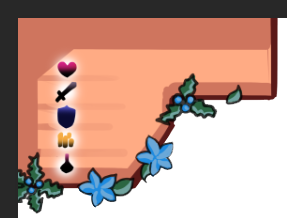
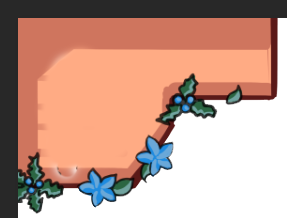
initial styling for player stats

Changed region(s): [[0.1394, 0.2477, 0.3066, 0.8257]]

diff --git a/assets/css/style.css b/assets/css/style.css
@@ -185,7 +185,7 @@
      position: relative;
  }
 
- /* ----- Inner Divs & Buttons*/
+ /* ----- Stats */
 
 .heroine-stats {
     background-image: url(../stats/template-stats-left.png);
@@ -196,6 +196,96 @@
     background-image: url(../stats/template-stats-right.png);
     background-position-x: right;
 }
+
+.stat-container {
+    border: 2px solid blue;
+    height: 100%;
+    width: 100%;
+}
+
+.inner-stat-container {
+    border: 2px solid aqua;
+    position: relative;
+    height: 80%;
+    width: 80%;
+    top: 10%;
+    left: 10%;
+}
+#heroine-stats-container .stat-line {
+    border: 2px solid red;
+    height: 20%;
+    background-repeat: no-repeat;
+    background-size: contain;
+}
+
+.health-stat{
+    background-image: url(../stats/stat-icon-health.png);
+}
+
+.attack-stat{
+    background-image: url(../stats/stat-icon-attack.png);
+}
+
+.defence-stat{
+    background-image: url(../stats/stat-icon-defence.png);
+}
+.gold-stat{
+    background-image: url(../stats/stat-icon-gold.png);
+}
+
+/*
+----- Player Stats
+
+ .player-stats-container {
+     position: absolute;
+     width: 768px;
+     height: 1024px;
+     left: calc(50% - 384px);
+     pointer-events: none;
+ }
+
+ .iconSmall {
+     height: 25px;
+ }
+
+ .player-stats {
+     position: absolute;
+     left: 7%;
+     top: 5%;
+     outline: purple 3px solid;
+     background-color: aqua;
+     width: 140px;
+ }
+
+ .player-stats p {
+     font-size: 25px;
+     margin-bottom: 4px;
+ }
+  ----- Enemy Stats
+
+ .enemy-stats-container {
+     position: absolute;
+     width: 768px;
+     height: 1024px;
+     left: calc(50% - 384px);
+     pointer-events: none;
+ }
+
+ .enemy-stats {
+     position: absolute;
+     right: 7%;
+     top: 5%;
+     outline: purple 3px solid;
+     background-color: pink;
+     width: 140px;
+ }
+
+ .enemy-stats p {
+     font-size: 25px;
+     margin-bottom: 4px;
+ }
+
+/* ----- Inner Divs & Buttons - Figures */
 
 .figure {
     background-position: center;
@@ -260,6 +350,9 @@
     /* Level 2 enemy */
  }
 
+
+/* ----- Inner Divs & Buttons - Buttons */
+
 #attack .button {
      background-image: url(../buttons/sword.png);
  }
@@ -271,7 +364,6 @@
 #flee .button {
     background-image: url(../buttons/run.png);
 }
-
 
 
 
@@ -816,56 +908,7 @@
      color: goldenrod;
      opacity: 0;
  }
- ----- Player Stats
 
- .player-stats-container {
-     position: absolute;
-     width: 768px;
-     height: 1024px;
-     left: calc(50% - 384px);
-     pointer-events: none;
- }
-
- .iconSmall {
-     height: 25px;
- }
-
- .player-stats {
-     position: absolute;
-     left: 7%;
-     top: 5%;
-     outline: purple 3px solid;
-     background-color: aqua;
-     width: 140px;
- }
-
- .player-stats p {
-     font-size: 25px;
-     margin-bottom: 4px;
- }
-  ----- Enemy Stats
-
- .enemy-stats-container {
-     position: absolute;
-     width: 768px;
-     height: 1024px;
-     left: calc(50% - 384px);
-     pointer-events: none;
- }
-
- .enemy-stats {
-     position: absolute;
-     right: 7%;
-     top: 5%;
-     outline: purple 3px solid;
-     background-color: pink;
-     width: 140px;
- }
-
- .enemy-stats p {
-     font-size: 25px;
-     margin-bottom: 4px;
- }
   ----- Round counter
 
  .round-counter-container {

diff --git a/index.html b/index.html
@@ -23,7 +23,33 @@
         <!--COMBAT-->
         <div id="combat-screen" class="game-screen">
             <div class="screen-flex-row stat-section">
-                <div class="stats heroine-stats" id="heroine-stats-container"></div>
+                <div class="stats heroine-stats" id="heroine-stats-container">
+                    <div class="stat-container">
+                        <div class="inner-stat-container">
+                            <div class="stat-line health-stat"></div>
+                            <div class="stat-line attack-stat"></div>
+                            <div class="stat-line defence-stat"></div>
+                            <div class="stat-line gold-stat"></div>
+                        </div>
+
+
+
+                        <!--
+                        <p><span><img class="iconSmall" src="assets/buttons/sword.png"></span> <span
+                                id="playerHealth"></span> / <span id="playerMaxHealth"></span>
+                        </p>
+                        <p><span><img class="iconSmall" src="assets/buttons/sword.png"></span> <span
+                                id="playerAttack"></span>
+                        </p>
+                        <p><span><img class="iconSmall" src="assets/buttons/sword.png"></span> <span
+                                id="playerDefense"></span>
+                        </p>
+                        <p><span><img class="iconSmall" src="assets/buttons/sword.png"></span> <span
+                                id="playerGold"></span>
+                        </p>
+                        -->
+                    </div>
+                </div>
                 <div class="stats enemy-stats" id="enemy-stats-container"></div>
             </div>
             <div class="screen-flex-row center-section">
@@ -61,6 +87,8 @@
                 </div>
 
             </div>
+
+
 
             <!--ENEMIES
             <div class="enemy-container combat-image">
@@ -255,10 +283,6 @@
         </div>-->
         </div>
 
-
-
-
-
         <!--VICTORY-->
         <div id="victory-screen" class="game-screen">
             <div class="screen-flex-row welcome-buffer-section"></div>
@@ -275,20 +299,7 @@
 
         <!--OVERLAYS-->
 
-        <!--PLAYER STATS
-        <div class="player-stats-container">
-            <div class="player-stats">
-                <p><span><img class="iconSmall" src="assets/buttons/sword.png"></span> <span
-                        id="playerHealth"></span> / <span id="playerMaxHealth"></span>
-                </p>
-                <p><span><img class="iconSmall" src="assets/buttons/sword.png"></span> <span id="playerAttack"></span>
-                </p>
-                <p><span><img class="iconSmall" src="assets/buttons/sword.png"></span> <span id="playerDefense"></span>
-                </p>
-                <p><span><img class="iconSmall" src="assets/buttons/sword.png"></span> <span id="playerGold"></span>
-                </p>
-            </div>
-        </div>-->
+
 
         <!--ENEMY STATS
         <div class="enemy-stats-container">

diff --git a/assets/script/script.js b/assets/script/script.js
@@ -172,8 +172,8 @@ $(function () {
   //Hiding / Showing
   gameScreen.welcome.hide();
   gameScreen.home.hide();
-  gameScreen.combat.hide();
-  gameScreen.victory.show();
+  gameScreen.combat.show();
+  gameScreen.victory.hide();
   gameScreen.map.hide();
   gameScreen.shop.hide();
   gameScreen.menu.hide();
